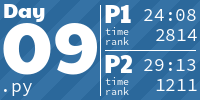
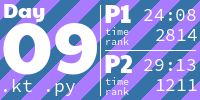
Add day 9

diff --git a/2022/09/09.kt b/2022/09/09.kt
@@ -1,0 +1,24 @@
+operator fun Pair<Int, Int>.plus(o: Pair<Int, Int>) = Pair(this.first + o.first, this.second + o.second)
+
+fun main() {
+    val input = generateSequence(::readlnOrNull).toList().map { it.split(" ") }
+    val visited2: MutableSet<Pair<Int, Int>> = mutableSetOf()
+    val visited10: MutableSet<Pair<Int, Int>> = mutableSetOf()
+    val lookup = mapOf("D" to Pair(0, 1), "U" to Pair(0, -1), "L" to Pair(-1, 0), "R" to Pair(1, 0))
+    val rope = MutableList(10) { Pair(0, 0) }
+    for ((dir, steps) in input) {
+        for (j in 1..steps.toInt()) {
+            rope[0] = rope[0] + lookup[dir]!!
+            for (i in 0..rope.size-2) {
+                val dx = rope[i].first - rope[i+1].first
+                val dy = rope[i].second - rope[i+1].second
+                if (Math.abs(dx) >= 2 || Math.abs(dy) >= 2)
+                    rope[i+1] = rope[i+1] + Pair(dx.coerceIn(-1..1), dy.coerceIn(-1..1))
+            }
+            visited2.add(rope[1])
+            visited10.add(rope.last())
+        }
+    }
+    println(visited2.size)
+    println(visited10.size)
+}

diff --git a/README.md b/README.md
@@ -30,7 +30,7 @@
 <a href="2022/08/08.kt">
   <img src="Media/2022/08.png" width="161px">
 </a>
-<a href="2022/09/09.py">
+<a href="2022/09/09.kt">
   <img src="Media/2022/09.png" width="161px">
 </a>
 <h1 align="center">
